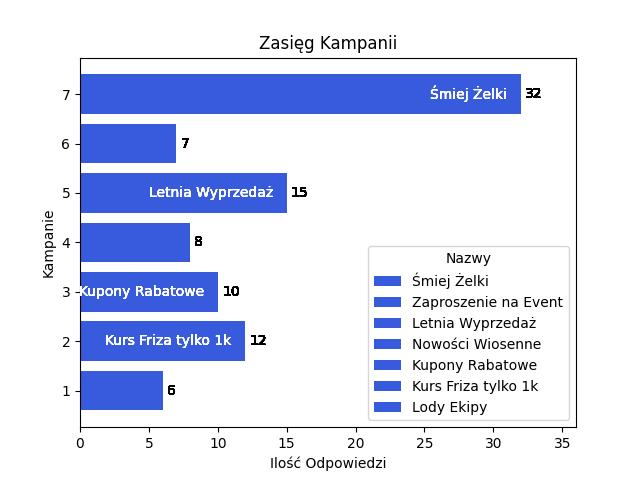
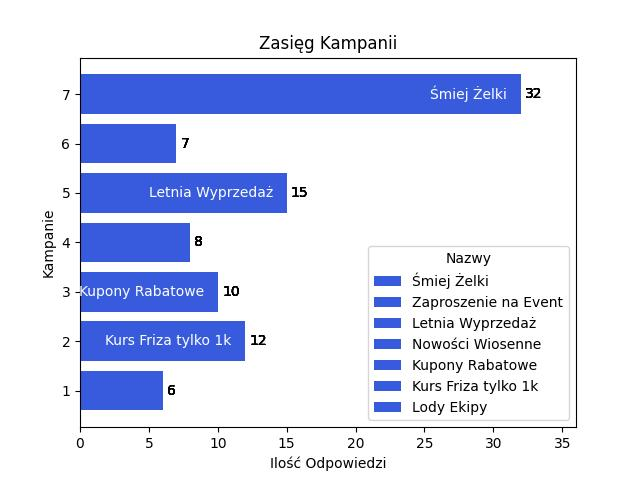
isort

diff --git a/productionfiles/formstyle.css b/productionfiles/formstyle.css
@@ -9,11 +9,13 @@ body, html {
   background-color: #f5f5f5; /* Tło strony */
   font-family: 'Source Sans Pro', sans-serif;
 }
+.errorlist {
+  color: rgb(255, 116, 116);
+}
 
 /* Stylowanie formularza */
 .formularz {
   width: 300px; /* Szerokość formularza */
-  margin: 0 auto; /* Wyśrodkowanie formularza na stronie */
   padding: 20px; /* Wewnętrzny margines formularza */
   border: 2px solid #375BDC; /* Ramka formularza */
   border-radius: 10px; /* Zaokrąglenie rogów */
@@ -29,7 +31,7 @@ body, html {
 
 /* Stylowanie pól input */
 .formularz input {
-  width: 100%; /* Pełna szerokość pola input */
+  width: 90%; /* Pełna szerokość pola input */
   padding: 10px; /* Wewnętrzny margines pola input */
   margin-bottom: 20px; /* Odstęp między polami input */
   border: 1px solid #375BDC; /* Ramka pola input */
@@ -47,7 +49,7 @@ body, html {
   cursor: pointer; /* Zmiana kursora na wskaźnik */
 }
 
-/* Dodatkowe style dla efektu hover (po najechaniu myszką) */
 .formularz button:hover {
   background-color: #2C4FA1; /* Ciemniejszy kolor tła */
 }
+

diff --git a/mystaticfiles/formstyle.css b/mystaticfiles/formstyle.css
@@ -9,6 +9,9 @@ body, html {
   background-color: #f5f5f5; /* Tło strony */
   font-family: 'Source Sans Pro', sans-serif;
 }
+.errorlist {
+  color: rgb(255, 116, 116);
+}
 
 /* Stylowanie formularza */
 .formularz {

diff --git a/mails/views.py b/mails/views.py
@@ -1,121 +1,125 @@
-from django.shortcuts import render
-from django.http import HttpResponse
-from django.template import loader
-from .models import Campaign
-from django.contrib.auth.forms import UserCreationForm
-from django.contrib.auth.forms import AuthenticationForm
-
-from django.contrib.auth.decorators import login_required
-from django.contrib.auth import authenticate, login
-from django.shortcuts import redirect
-
+# TODO: ogarniecie importow - ustrukyrzowanie (np. biblioteka isort), wyrzucenie niepotrzebnych ✅
+import io
 import math
+import sys
 
+import matplotlib
 import matplotlib.pyplot as plt
 import numpy as np
-#TODO: ogarniecie importow - ustrukyrzowanie (np. biblioteka isort), wyrzucenie niepotrzebnych
-import io
-import sys
-import matplotlib
-matplotlib.use('Agg')
+from django.contrib.auth import authenticate, login
+from django.contrib.auth.decorators import login_required
+from django.contrib.auth.forms import AuthenticationForm, UserCreationForm
+from django.http import HttpResponse
+from django.shortcuts import redirect, render
+from django.template import loader
+
+from .models import Campaign
+
+matplotlib.use("Agg")
 
 
-#TODO: odpowiednie formatowanie kodu wedlug standardow PEP (np. bibliboteka black)
+# TODO: odpowiednie formatowanie kodu wedlug standardow PEP (np. bibliboteka black) ✅
 @login_required
-def mainView(request):
-    #TODO: dostosowanie nazw funkcji do konwencji PEP (czyli tutaj powinien byc np. main_view - snake case dla nazw funkcji i zmiennych)
-    campaigns = Campaign.objects.all().order_by('date').values()
-    bestCampaign = Campaign.objects.all().order_by('-replied').first()
+def main_view(request):
+    # TODO: dostosowanie nazw funkcji do konwencji PEP (czyli tutaj powinien byc np. main_view - snake case dla nazw funkcji i zmiennych)✅
+    campaigns = Campaign.objects.all().order_by("date").values()
+    best_campaign = Campaign.objects.all().order_by("-replied").first()
 
-    name = []
-    number = []
-    #TODO: w pythonie korzystamy z onelinerow, zamiast petli for tam gdzie sie da
-    # numbers = [campaign['replied'] for campaign in campaigns]
-    # names = [campaign['name'] for campaign in campaigns]
-    for campaign in campaigns:
-        name.append(campaign['name'])
-        number.append(campaign['replied'])
+    # TODO: w pythonie korzystamy z onelinerow, zamiast petli for tam gdzie sie da
+    numbers = [campaign['replied'] for campaign in campaigns]
+    names = [campaign['name'] for campaign in campaigns]
 
     # Stwórz wykres słupkowy
     # plt.barh(name, number, color = "#375BDC")
-    #TODO: moja propozycja to zeby ten plot nie byl statyczny i zapisywany do pliku, ale interaktywny
+    # TODO: moja propozycja to zeby ten plot nie byl statyczny i zapisywany do pliku, ale interaktywny
     # mozna to osiagnac np. biblioteka plotly - z tego co kojarze da sie ja zintegrowac z django
-    bars = plt.barh(np.arange(len(name)), number, color="#375BDC")
+    bars = plt.barh(np.arange(len(names)), numbers, color="#375BDC")
 
     for i, bar in enumerate(bars):
-        if bar.get_width()*1.6 > len(name[i]):
-            plt.text(bar.get_width()-1, bar.get_y() + bar.get_height()/2, name[i], ha='right', va='center', color='white', fontsize=10)
+        if bar.get_width() * 1.6 > len(names[i]):
+            plt.text(
+                bar.get_width() - 1,
+                bar.get_y() + bar.get_height() / 2,
+                names[i],
+                ha="right",
+                va="center",
+                color="white",
+                fontsize=10,
+            )
         plt.bar_label(bars, padding=3)
-        bar.set_label(name[i])
-        
-    plt.xlabel('Ilość Odpowiedzi')
-    plt.ylabel('Kampanie')
-    plt.title('Zasięg Kampanii')
-    l = math.ceil(max(number) * 1.1)
+        bar.set_label(names[i])
+
+    plt.xlabel("Ilość Odpowiedzi")
+    plt.ylabel("Kampanie")
+    plt.title("Zasięg Kampanii")
+    l = math.ceil(max(numbers) * 1.1)
     plt.xlim(0, l)
-    plt.yticks(np.arange(len(name)), np.arange(1, len(name)+1))  
-    plt.legend(title="Nazwy", handles=bars[::-1])  
+    plt.yticks(np.arange(len(names)), np.arange(1, len(names) + 1))
+    plt.legend(title="Nazwy", handles=bars[::-1])
 
     plt.savefig("mails/static/wykres.jpg")
 
-    #TODO: dodatkowe ploty: response rate, open rate itp. (np. bar plot)
-    #TODO: skutecznosc kampanii w czasie - line plot
-    context = { 
-        'mycampaign': bestCampaign,
+    # TODO: dodatkowe ploty: response rate, open rate itp. (np. bar plot)
+    # TODO: skutecznosc kampanii w czasie - line plot
+    context = {
+        "mycampaign": best_campaign,
     }
-    template = loader.get_template('main.html')
+    template = loader.get_template("main.html")
     return HttpResponse(template.render(context, request))
 
+
 @login_required
-def mailsView(request):
+def mails_view(request):
     campaigns = Campaign.objects.all()
-    template = loader.get_template('campaigns.html')
+    template = loader.get_template("campaigns.html")
     context = {
-        'campaigns': campaigns, 
+        "campaigns": campaigns,
     }
     return HttpResponse(template.render(context, request))
+
 
 @login_required
-def detailsView(request, slug):
+def details_view(request, slug):
     mycampaign = Campaign.objects.get(slug=slug)
-    template = loader.get_template('details.html')
+    template = loader.get_template("details.html")
     context = {
-        'mycampaign': mycampaign,
+        "mycampaign": mycampaign,
     }
     return HttpResponse(template.render(context, request))
 
 
-def signupView(request):
-    if request.method == 'POST':
+def signup_view(request):
+    if request.method == "POST":
         form = UserCreationForm(request.POST)
-        #TODO: ladniejsze wyswietlanie errora jak cos nie tak z formularzem
+        # TODO: ladniejsze wyswietlanie errora jak cos nie tak z formularzem
         # typu wiadomosc na czerowno co poszlo nie tak, bo tak to sie zlewa
+        # dodalem style ale najprawdopodobniej zeby one sie zaladowaly bedzie trzoeba pobierac na nowo cala aplikacje
         if form.is_valid():
             user = form.save()
             # log the user in
             login(request, user)
-            return redirect('main')
+            return redirect("main")
     else:
         form = UserCreationForm()
-        
-    return render(request, 'signup.html', {'form': form})
+
+    return render(request, "signup.html", {"form": form})
 
 
-def loginView(request):
-    if request.method == 'POST':
+def login_view(request):
+    if request.method == "POST":
         form = AuthenticationForm(data=request.POST)
         if form.is_valid():
-            username = form.cleaned_data.get('username')
-            password = form.cleaned_data.get('password')
+            username = form.cleaned_data.get("username")
+            password = form.cleaned_data.get("password")
             user = authenticate(username=username, password=password)
-            
+
             if user is not None:
-                
+
                 login(request, user)
-                return redirect('/')
+                return redirect("/")
         else:
             print(form.errors)
     else:
         form = AuthenticationForm()
 
-    return render(request, 'login.html', {'form': form})
+    return render(request, "login.html", {"form": form})

diff --git a/mails/urls.py b/mails/urls.py
@@ -1,13 +1,13 @@
-from django.urls import path, include
-from . import views
 from django.contrib.auth import views as auth_views
+from django.urls import include, path
 
+from . import views
 
 urlpatterns = [
-    path('', views.mainView, name='main'),
-    path('campaigns/', views.mailsView, name='mails'),
-    path('campaigns/details/<slug:slug>', views.detailsView, name='details'),
-    path('signup/', views.signupView, name="signup"),
-    path('login/', views.loginView, name="login"),
-    path('logout/', auth_views.LogoutView.as_view(), name='logout'),
+    path("", views.main_view, name="main"),
+    path("campaigns/", views.mails_view, name="mails"),
+    path("campaigns/details/<slug:slug>", views.details_view, name="details"),
+    path("signup/", views.signup_view, name="signup"),
+    path("login/", views.login_view, name="login"),
+    path("logout/", auth_views.LogoutView.as_view(), name="logout"),
 ]
